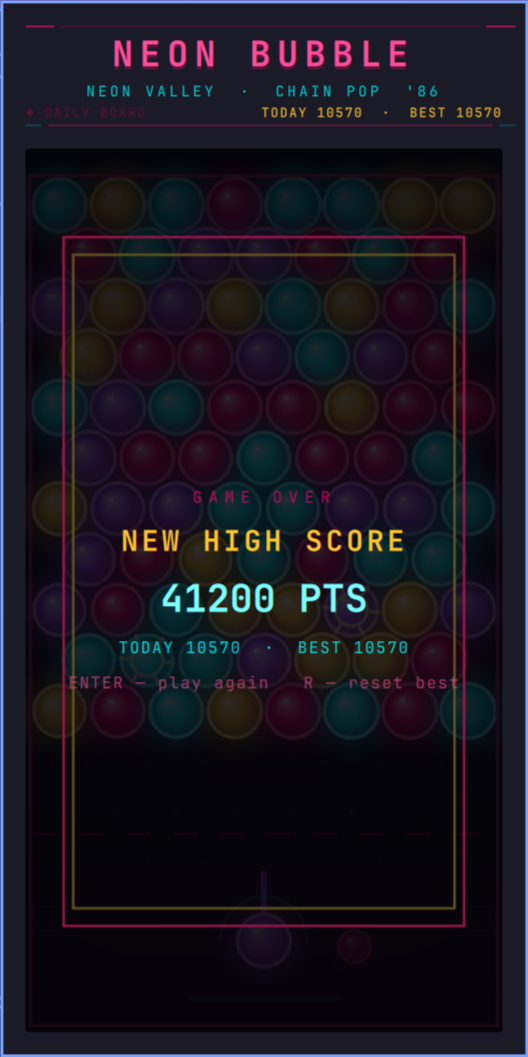
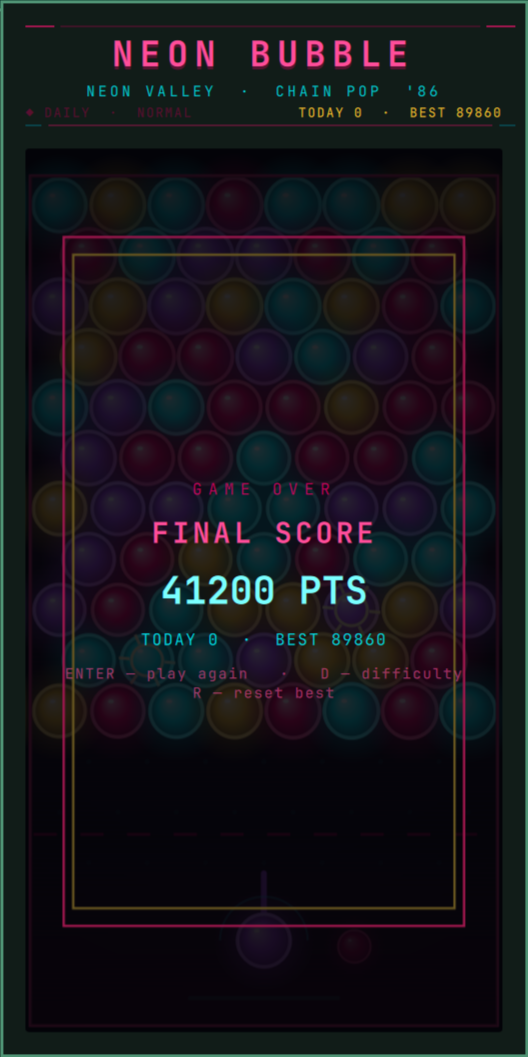
Wire the difficulty ramp to something a player can reach
The engine grew easy/normal/hard and per-difficulty score ladders, but nothing
selected one: no manifest setting, no key, no indication on screen. The plugin
compiled and played, always on normal, and the feature was dormant.

Now: a `difficulty` enum in the settings is the persistent choice, and D cycles
it for the session from the menu or the game-over screen -- session-only,
because this plugin does not write to a configuration file. It is refused
mid-game, since the curve is fixed when create() runs and changing it would
leave the run on the old cadence while filing the score under the new ladder.

Two things this found.

`gameOverNewBest` still read `sessionStats.best`, which no longer exists now
bests live in per-difficulty tracks. `score >= undefined` is false, so the NEW
BEST banner would never have appeared for anyone. It reads Scores.best() now.

And the header's meta line was the literal "DAILY BOARD" whatever the board
mode was, so a random board announced itself as the daily one. It is a property
now, carrying the board kind and the ladder the score beside it belongs to --
BEST means nothing without knowing which curve produced it. It shares a row
with the score, so it elides rather than running underneath it; the first shot
of it had the two overlapping.

tools/sim.mjs gains checkDifficulty(): that the names are ordered easiest
first, that an unknown name lands on normal rather than throwing, that the
[…]

diff --git a/Panel.qml b/Panel.qml
@@ -106,6 +106,16 @@ Panel {
     return (v === "random") ? "random" : "daily"
   }
 
+  // Difficulty is the shape of the ceiling's descent and nothing else — the
+  // board is identical on all three, so the daily puzzle stays comparable.
+  // `difficultyChoice` is a session-only override for the D key: the manifest
+  // setting remains the persistent policy, and this plugin never writes to a
+  // configuration file.
+  property string difficultyChoice: ""
+  readonly property string difficultySetting: Engine.difficultyOf(setting("difficulty", "normal"))
+  readonly property string difficulty:
+    difficultyChoice !== "" ? Engine.difficultyOf(difficultyChoice) : difficultySetting
+
   readonly property int daySeed: Engine.boardTodaySeed()
   readonly property string debugPreviewScene: String(setting("debugPreviewScene", "off"))
   // Every frozen scene has to be listed here as well as in applyPreviewScene,
@@ -133,7 +143,13 @@ Panel {
     return "Neon Bubble Pop — Enter to play"
   }
 
-  readonly property string sessionLine: Scores.sessionLine(sessionStats, daySeed)
+  readonly property string sessionLine: Scores.sessionLine(sessionStats, daySeed, difficulty)
+
+  // The board kind and the ladder the score beside it belongs to. Both matter:
+  // BEST means nothing without knowing which curve produced it.
+  readonly property string metaLine:
+    "◆ " + (boardMode === "daily" ? "DAILY" : "RANDOM")
+    + "  ·  " + difficulty.toUpperCase()
 
   // A save that arrives while one is in flight is queued rather than forced.
   // running = false does not reap the child before the next statement, so the
@@ -166,7 +182,7 @@ Panel {
     // the number it started with.
     var seed = (boardMode === "daily") ? daySeed
              : ((Date.now() & 0x7fffffff) | 0)
-    gameState = Engine.create(seed, { daily: boardMode === "daily" })
+    gameState = Engine.create(seed, { daily: boardMode === "daily", difficulty: difficulty })
     phase = "play"
     lastRecorded = false
     lastRecordedScore = -1
@@ -184,6 +200,17 @@ Panel {
     lastRecordedScore = -1
   }
 
+  // Only between games: the curve is fixed when create() runs, so changing it
+  // mid-game would leave the run on the old cadence and file the score under
+  // the new ladder.
+  function cycleDifficulty() {
+    if (phase !== "menu" && phase !== "gameover") return
+    var order = Engine.difficultyNames()
+    var at = order.indexOf(difficulty)
+    difficultyChoice = order[(at + 1) % order.length]
+    if (sfxLoader.item) sfxLoader.item.play("wall")
+  }
+
   function resetHighScores() {
     sessionStats = Scores.reset(sessionStats)
     saveScores(Scores.serialize(sessionStats))
@@ -196,7 +223,7 @@ Panel {
     // and counted itself as another game.
     if (previewFrozen) return
     if (lastRecorded && lastRecordedScore === gameState.score) return
-    sessionStats = Scores.recordGame(sessionStats, gameState.score, daySeed)
+    sessionStats = Scores.recordGame(sessionStats, gameState.score, daySeed, difficulty)
     lastRecorded = true
     lastRecordedScore = gameState.score
     saveScores(Scores.serialize(sessionStats))
@@ -209,7 +236,10 @@ Panel {
 
   readonly property bool gameOverNewBest: {
     if (!gameState || gameState.phase !== "gameover") return false
-    return gameState.score >= sessionStats.best && gameState.score > 0
+    // Scores.best(), not sessionStats.best: bests moved into per-difficulty
+    // tracks, and reading the old top-level field gives undefined — which makes
+    // `score >= undefined` false and the NEW BEST banner never appear.
+    return gameState.score >= Scores.best(sessionStats, difficulty) && gameState.score > 0
   }
 
   function applyPreviewScene() {
@@ -403,6 +433,7 @@ Panel {
       onTextKey: function(t) {
         if (root.phase !== "menu" && root.phase !== "gameover") return
         if (t === "r" || t === "R") root.resetHighScores()
+        if (t === "d" || t === "D") root.cycleDifficulty()
       }
 
       onCloseRequested: root.close()
@@ -470,6 +501,7 @@ Panel {
         TitleHeader {
           width: parent.width
           sessionLine: root.sessionLine
+          metaLine: root.metaLine
         }
 
         Board {
@@ -480,6 +512,7 @@ Panel {
           gameOverScore: root.gameOverScoreLine
           gameOverSession: root.sessionLine
           gameOverNewBest: root.gameOverNewBest
+          difficulty: root.difficulty
         }
 
         Item {

diff --git a/TitleHeader.qml b/TitleHeader.qml
@@ -6,6 +6,9 @@ Item {
   id: root
 
   property string sessionLine: ""
+  // Was hardcoded "◆ DAILY BOARD", which was wrong in random mode and had
+  // nowhere to say which difficulty the score beside it belongs to.
+  property string metaLine: "◆ DAILY BOARD"
   implicitWidth: Style.space(400)
   implicitHeight: titleBlock.implicitHeight + Style.space(6)
 
@@ -70,8 +73,14 @@ Item {
 
       Text {
         id: metaRow
+        // The score sits at the right of this same row, so the meta line gets
+        // whatever is left and elides rather than running underneath it.
+        anchors.left: parent.left
+        anchors.right: sessionText.left
+        anchors.rightMargin: Style.space(6)
+        elide: Text.ElideRight
         textFormat: Text.PlainText
-        text: "◆ DAILY BOARD"
+        text: root.metaLine
         color: Palette.neonDim
         font.family: Style.font.family
         font.pixelSize: Style.space(8)
@@ -79,6 +88,7 @@ Item {
       }
 
       Text {
+        id: sessionText
         anchors.right: parent.right
         anchors.verticalCenter: parent.verticalCenter
         textFormat: Text.PlainText

diff --git a/MenuAttract.qml b/MenuAttract.qml
@@ -5,6 +5,8 @@ import "Palette.js" as Palette
 Item {
   id: root
   property bool active: false
+  // The ladder a game started from here will be filed under.
+  property string difficulty: "normal"
 
   anchors.fill: parent
   visible: opacity > 0.01
@@ -169,6 +171,18 @@ Item {
         NumberAnimation { from: 0.25; to: 1; duration: 620; easing.type: Easing.InOutQuad }
         NumberAnimation { from: 1; to: 0.25; duration: 620; easing.type: Easing.InOutQuad }
       }
+    }
+
+    Text {
+      width: parent.width
+      horizontalAlignment: Text.AlignHCenter
+      textFormat: Text.PlainText
+      text: "D — DIFFICULTY: " + root.difficulty.toUpperCase()
+      color: Palette.gold
+      font.family: Style.font.family
+      font.pixelSize: Style.space(8)
+      font.letterSpacing: Style.space(2)
+      opacity: 0.75
     }
   }
 }

diff --git a/GameOverOverlay.qml b/GameOverOverlay.qml
@@ -100,11 +100,16 @@ Item {
       width: parent.width
       horizontalAlignment: Text.AlignHCenter
       textFormat: Text.PlainText
-      text: "ENTER — play again   R — reset best"
+      // Three keys do not fit on one line at this width — the single-line
+      // version was clipped at both ends, losing the E of ENTER and the
+      // "best" off the end. Wrapping keeps the words rather than the layout.
+      text: "ENTER — play again   ·   D — difficulty
+R — reset best"
       color: Palette.neonBright
       font.family: Style.font.family
-      font.pixelSize: Style.space(10)
+      font.pixelSize: Style.space(9)
       font.letterSpacing: Style.space(1)
+      wrapMode: Text.WordWrap
 
       SequentialAnimation on opacity {
         running: root.active

diff --git a/GameEngine.js b/GameEngine.js
@@ -59,6 +59,12 @@ function difficultyOf(name) {
   return DIFFICULTIES[name] ? name : DEFAULT_DIFFICULTY
 }
 
+// Easiest first, so a caller cycling through them walks the curve in order
+// rather than in whatever order the object happens to enumerate.
+function difficultyNames() {
+  return ["easy", "normal", "hard"]
+}
+
 // The interval the ceiling is currently on. Derived from shots fired rather
 // than stored as a countdown of its own, so it cannot drift out of step with
 // the run and a snapshot carries no extra state to get wrong.

diff --git a/Board.qml b/Board.qml
@@ -12,6 +12,7 @@ Item {
   property string gameOverScore: ""
   property string gameOverSession: ""
   property bool gameOverNewBest: false
+  property string difficulty: "normal"
 
   readonly property real boardW: Engine.boardWidth()
   readonly property real boardH: Engine.boardHeight()
@@ -425,7 +426,7 @@ Item {
     }
   }
 
-  MenuAttract { active: root.showAttract }
+  MenuAttract { active: root.showAttract; difficulty: root.difficulty }
   GameOverOverlay {
     active: root.showGameOver
     scoreLine: root.gameOverScore

diff --git a/README.md b/README.md
@@ -14,6 +14,7 @@ Click the **NB** pill to open the board. Middle-click resets to the menu.
 | **← →** | Aim (hold) |
 | **SPACE** | Fire |
 | **ENTER** | Start game / play again |
+| **D** | Cycle difficulty (menu or game over) |
 | **R** | Reset high-score tracker (menu or game over) |
 | **ESC** | Close |
 
@@ -51,6 +52,37 @@ a bar widget — you open it for a minute at a time — so a puzzle that resets
 daily suits it better than an endless one.
 
 Set `boardMode` to `random` for a fresh board every game.
+
+## Difficulty
+
+Three settings, and the only thing they change is **how fast the ceiling comes
+down**. The board is identical on all three — the daily puzzle has to be the
+same puzzle for everybody, or comparing scores on it stops meaning anything.
+
+| | Ceiling drops every | Tightening to | One shot faster every |
+|---|---|---|---|
+| Easy | 8 shots | 5 | 16 shots |
+| Normal | 6 shots | 3 | 10 shots |
+| Hard | 4 shots | 2 | 7 shots |
+
+The cadence used to be a flat six for a whole run, so the game never got harder
+— a player who survived the first minute had solved it and the rest was
+arithmetic. Now it tightens as you fire, down to a floor it never passes. The
+floor is what stops the ramp becoming a brick wall: below it there is no room
+left to build a cluster before the ceiling moves again.
+
+Measured over 120 games each with `tools/sim.mjs`:
+
+```
+easy    24.3 shots/game   2.9 ceiling descents
+normal  20.5 shots/game   3.6 ceiling descents
+hard    15.7 shots/game   4.8 ceiling descents
+```
+
+**Bests are kept per difficulty**, because a score is only comparable against
+another played on the same curve. `D` cycles it for the session; `difficulty`
+in the settings is the persistent choice. A score file written before difficulty
+existed migrates into `normal`, which is where the old fixed cadence started.
 
 ## What is checked, and against what
 
@@ -131,6 +163,7 @@ omarchy restart shell
 |---------|-----|---------|
 | Sound effects | `sound` | `true` |
 | Board | `boardMode` | `daily` — or `random` |
+| Difficulty | `difficulty` | `normal` — or `easy`, `hard` |
 | Popup position | `popupPosition` | `icon` |
 | Freeze a scene for a screenshot | `debugPreviewScene` | `off` |
 | Print the popup's own frame to the journal | `debugGeometry` | `false` |
